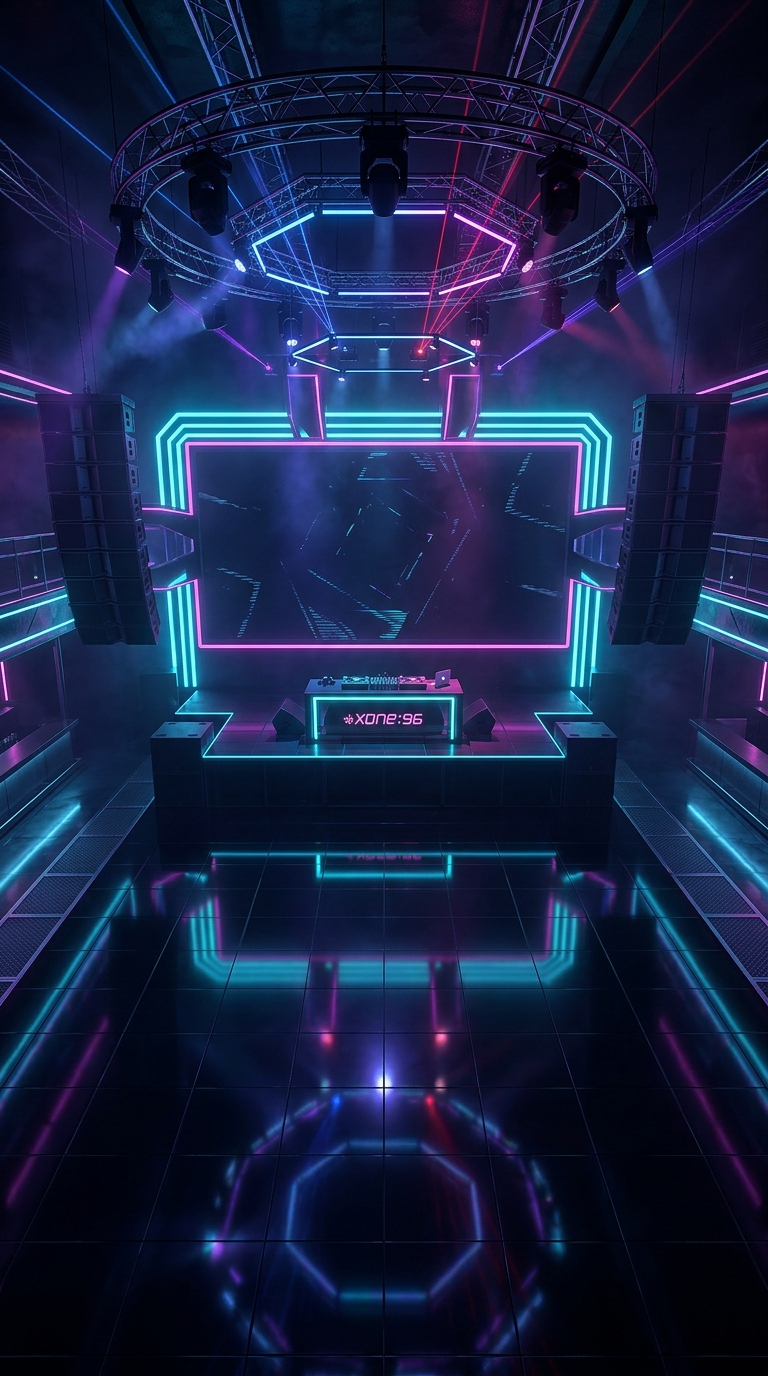
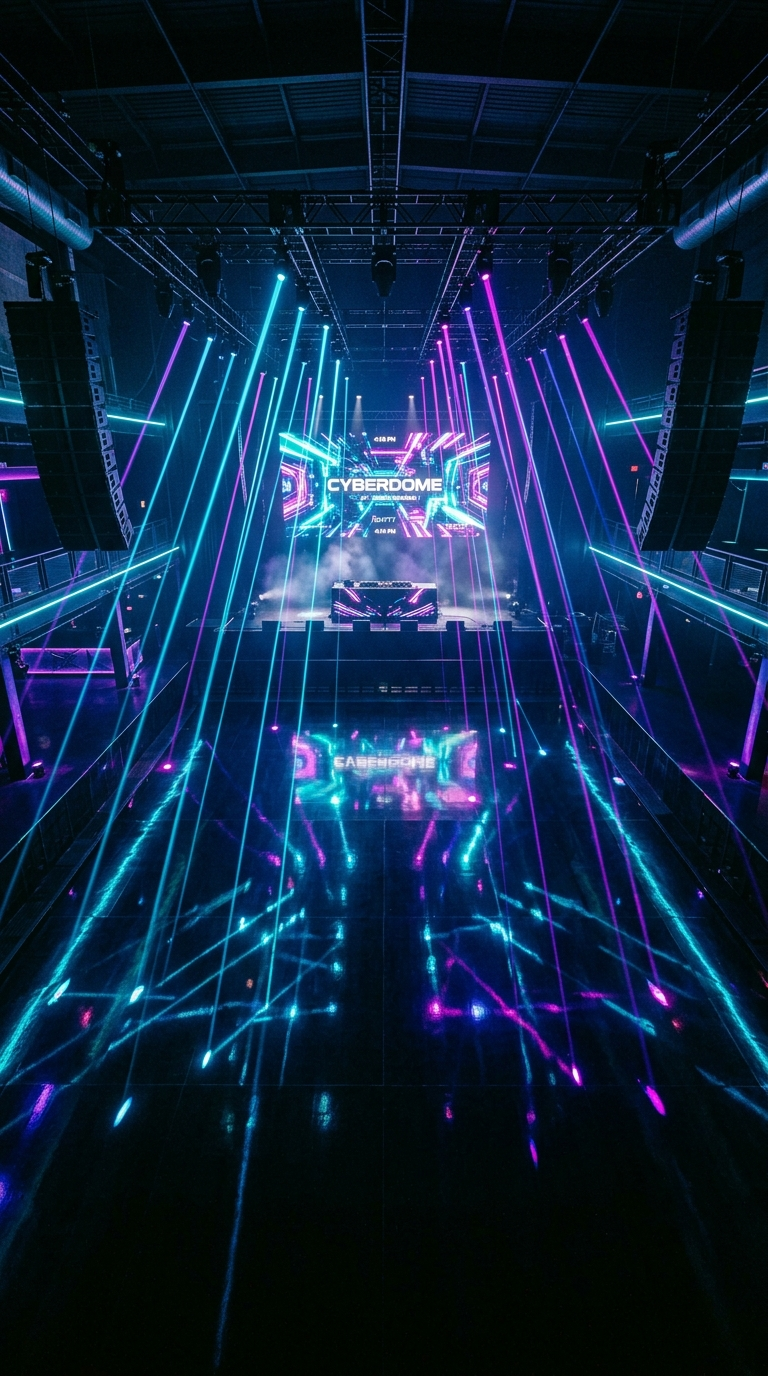
feat(disco): push DJ booth far in distance, expand massive 70%+ dance arena, and calibrate top-down camera sweep

diff --git a/apps/web/components/disco/disco-engine.ts b/apps/web/components/disco/disco-engine.ts
@@ -105,7 +105,7 @@ export class DiscoEngine {
           name: item.name,
           avatarUrl: `/assets/disco/Characters/${item.sprite}/000.png`,
           x: spreadX,
-          y: item.isDj ? 0.505 : 0.95,
+          y: item.isDj ? 0.435 : 0.95,
           z: item.z || 0.5,
           vy: 0,
           vx: (Math.random() - 0.5) * 0.04,
@@ -270,7 +270,7 @@ export class DiscoEngine {
       // DJ Physics override (Standing right behind the mixer desk)
       if (dancer.isDj) {
         const targetX = 0.5;
-        const targetY = 0.505;
+        const targetY = 0.435;
         
         // Lerp to DJ position behind the mixer table
         dancer.x += (targetX - dancer.x) * 3 * dt;
@@ -331,18 +331,18 @@ export class DiscoEngine {
       const lockedDancer = this.dancers.get(this.camera.lockedOnId);
       if (lockedDancer) {
         this.camera.targetX = lockedDancer.x;
-        this.camera.targetY = lockedDancer.isDj ? 0.52 : 0.55 + lockedDancer.z * 0.35;
+        this.camera.targetY = lockedDancer.isDj ? 0.435 : 0.50 + lockedDancer.z * 0.44;
         this.camera.targetScale = 1.70; // Zoom in close & focus
       } else {
         this.camera.lockedOnId = null;
       }
     } else {
       this.camera.lockedOnId = null;
-      // 3D Top-Down camera sweeping smoothly across left & right flanks of the wide club floor
+      // 3D Top-Down camera sweeping smoothly across left & right flanks of the massive club floor
       const orbitPhase = now * 0.00035; // smooth slow sway
-      this.camera.targetX = 0.5 + Math.sin(orbitPhase) * 0.28; // sweeping wide across both sides
-      this.camera.targetY = 0.56 + Math.cos(orbitPhase * 0.6) * 0.025; // elevated top-down perspective
-      this.camera.targetScale = 1.14; // panoramic view of the wide dance floor
+      this.camera.targetX = 0.5 + Math.sin(orbitPhase) * 0.26; // sweeping wide across both sides
+      this.camera.targetY = 0.52 + Math.cos(orbitPhase * 0.6) * 0.025; // elevated top-down perspective
+      this.camera.targetScale = 1.10; // panoramic view of the massive dance floor
     }
 
     // Smooth Lerp Camera

diff --git a/apps/web/components/disco/DiscoCanvas.tsx b/apps/web/components/disco/DiscoCanvas.tsx
@@ -223,27 +223,27 @@ export default function DiscoCanvas({ engine }: DiscoCanvasProps) {
       const focusedId = engine.camera.lockedOnId;
       const rawDancers = Array.from(engine.dancers.values());
 
-      // Calculate 3D screen position & scale for each dancer (Top-Down Wide Club Floor Perspective)
+      // Calculate 3D screen position & scale for each dancer (Distant DJ & Massive Top-Down Dance Floor)
       const calcDancerScreenPos = (dancer: typeof rawDancers[0]) => {
         const isVertical = H > W;
         if (dancer.isDj) {
           return {
             x: 0.5 * W,
-            y: isVertical ? H * 0.505 : H * 0.46,
-            renderScale: dancer.scale * (isVertical ? 1.25 : 1.1),
+            y: isVertical ? H * 0.435 : H * 0.38,
+            renderScale: dancer.scale * (isVertical ? 1.05 : 0.95),
             depth: 0.05,
           };
         }
         const z = Math.max(0.1, Math.min(1.0, dancer.z ?? 0.5));
-        // Top-down elevated floor perspective spanning from 0.58 to 0.96
-        const baseFloorY = isVertical ? (H * 0.58 + z * (H * 0.38)) : (H * 0.50 + z * (H * 0.46));
+        // Massive dance floor starting from 0.50 down to 0.96
+        const baseFloorY = isVertical ? (H * 0.50 + z * (H * 0.46)) : (H * 0.44 + z * (H * 0.52));
         let y = dancer.y < 1.0 ? dancer.y * baseFloorY : baseFloorY;
         if (dancer.state === 'dancing') {
           y -= Math.abs(Math.sin(dancer.danceOffset)) * (4 + z * 5);
         }
-        // Wide horizontal spread reaching both left and right flanks of the glossy floor
-        const x = W * (0.5 + (dancer.x - 0.5) * (0.92 + z * 0.16));
-        const renderScale = (0.50 + z * 0.54) * dancer.scale;
+        // Wide horizontal spread reaching both left and right flanks across the massive floor
+        const x = W * (0.5 + (dancer.x - 0.5) * (0.86 + z * 0.22));
+        const renderScale = (0.44 + z * 0.60) * dancer.scale;
         return { x, y, renderScale, depth: z };
       };
 

diff --git a/apps/web/components/disco/DiscoStageView.tsx b/apps/web/components/disco/DiscoStageView.tsx
@@ -198,20 +198,20 @@ export default function DiscoStageView({
         />
       </div>
 
-      {/* 2. Expanded Panoramic LED Video Screen Wall behind DJ Booth */}
+      {/* 2. Panoramic LED Video Screen Wall behind distant DJ Booth */}
       <div
         style={{
           position: 'absolute',
-          top: aspect === 'vertical' ? '31.8%' : '20%',
-          left: aspect === 'vertical' ? '23%' : '28%',
-          width: aspect === 'vertical' ? '54%' : '44%',
-          height: aspect === 'vertical' ? '15.8%' : '24%',
+          top: aspect === 'vertical' ? '31.2%' : '18%',
+          left: aspect === 'vertical' ? '36.2%' : '38%',
+          width: aspect === 'vertical' ? '27.6%' : '24%',
+          height: aspect === 'vertical' ? '10.6%' : '16%',
           zIndex: 2,
-          borderRadius: 8,
+          borderRadius: 6,
           overflow: 'hidden',
           backgroundColor: '#000',
-          boxShadow: '0 0 35px rgba(0, 240, 255, 0.6), inset 0 0 25px rgba(255, 0, 160, 0.35)',
-          border: '2px solid rgba(0, 240, 255, 0.8)',
+          boxShadow: '0 0 30px rgba(0, 240, 255, 0.6), inset 0 0 15px rgba(255, 0, 160, 0.35)',
+          border: '1.5px solid rgba(0, 240, 255, 0.8)',
         }}
       >
         {/* Video / GIF Content or Clean Cyber LED Visualizer */}
